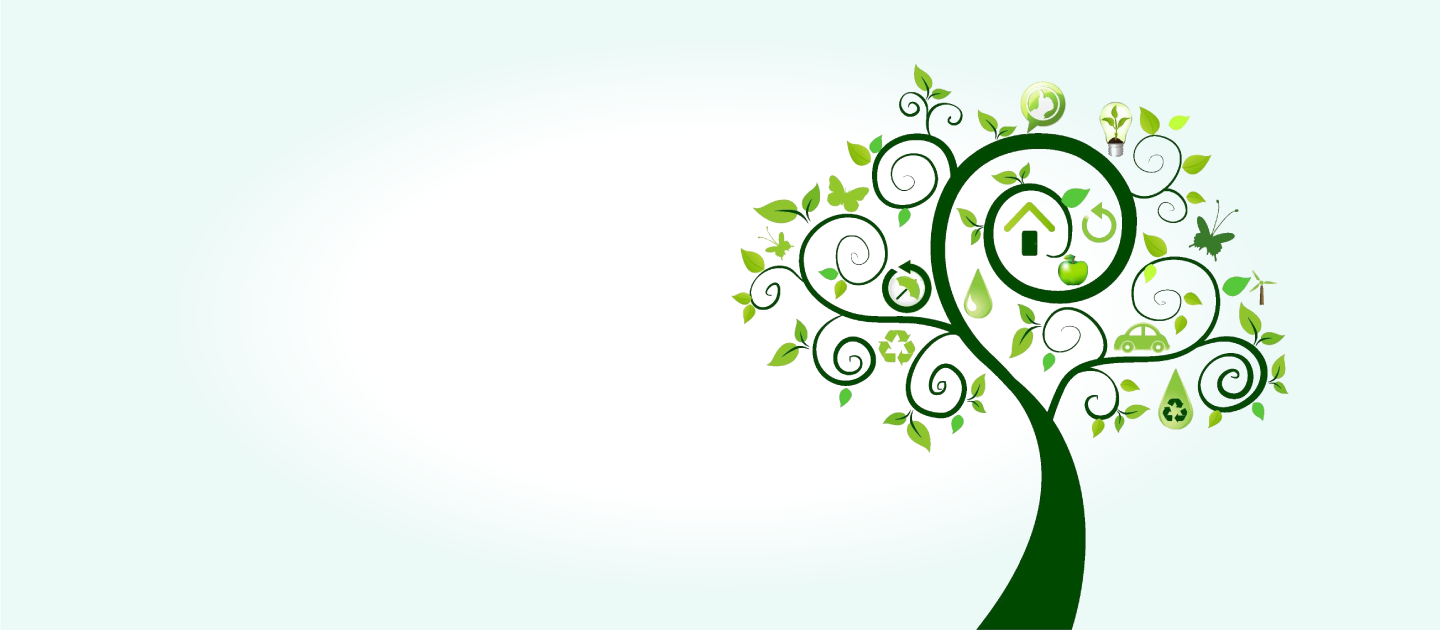
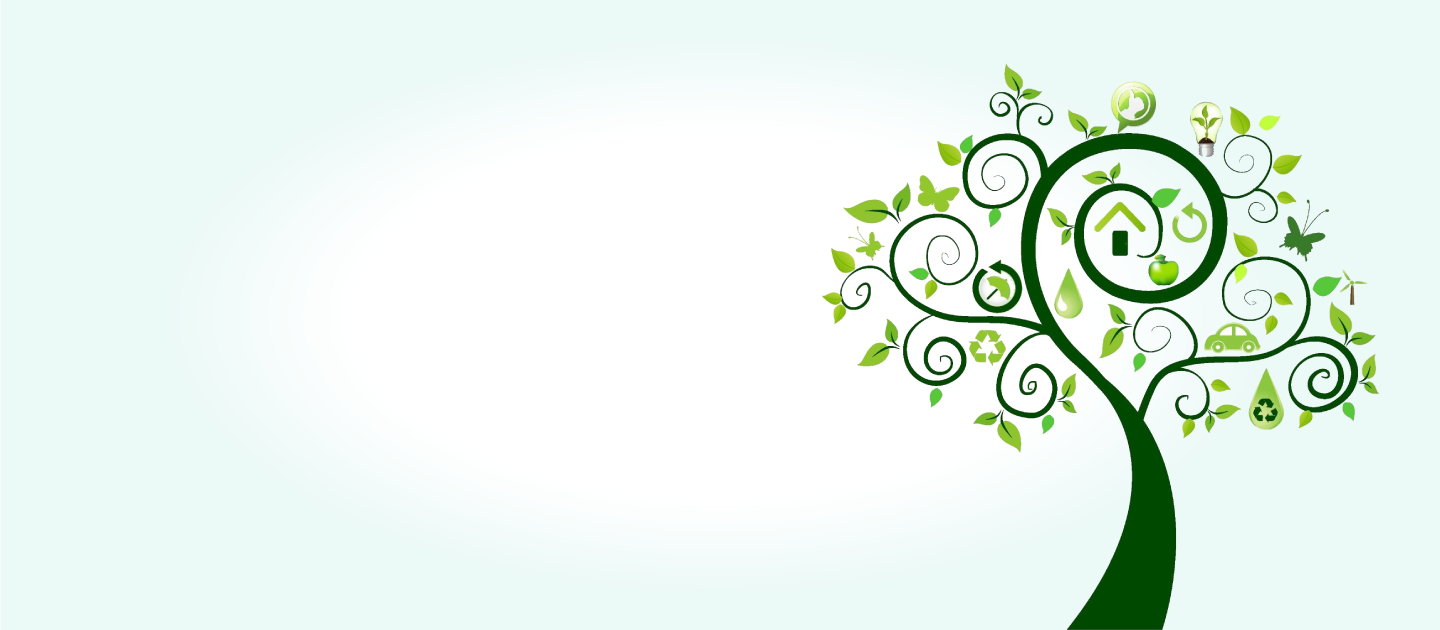
polishing...

Changed region(s): [[0.5, 0.0905, 0.9688, 1.0]]

diff --git a/index.html b/index.html
@@ -9,9 +9,11 @@ title: 歡迎
   <div class="ui container">
     <div id="background">
 
+      <!--
       <div class="sidebar button">
         <i class="teal icon sidebar" style="margin: 0;"></i>
       </div>
+    -->
 
       <div style="text-align: left;">
           <img style="height: 1.5rem;" src="{{ site.data.owner.logo.icon }}" />
@@ -20,7 +22,7 @@ title: 歡迎
 
       <div class="ui stackable grid">
         <div class="eight wide right aligned column">
-          <div style="margin: 2rem -1rem 2rem 0;">
+          <div style="margin: 1rem -1rem 1rem 0;">
             <div id="slogan">
               <p style="margin-bottom: 0.5rem;">
                 <span class="inline block">
@@ -40,6 +42,10 @@ title: 歡迎
                   需要你
                 </span>
               </p>
+              <a class="ui icon right labeled teal basic button" href="">
+                <i class="icon right chevron"></i>
+                開始測驗
+              </a>
             </div>
           </div>
         </div>
@@ -63,9 +69,18 @@ title: 歡迎
         </div>
       </div>
 
-      <div class="column">
+      <div class="center aligned column">
         <div class="ui image">
           <img src="assets/images/20170721-056.jpg">
+          <div style="padding: 0 2rem;">
+            <figcaption>能源轉型包含「廢核除煤、能源效率、綠色能源、智慧管理、經濟共享、民主治理」六大面向</figcaption>
+            <cite>
+              圖片來源：
+              <a href="https://www.cet-taiwan.org/publication/issue/content/3050" target="_blank">
+                地球公民基金會
+              </a>
+            </cite>
+          </div>
         </div>
       </div>
 
@@ -75,13 +90,13 @@ title: 歡迎
 
 <section class="ui basic olive section segment" style="background-color: #fdf9e5;">
   <div class="ui center aligned container" style="padding: 2rem 1rem;">
-    <div class="ui two fluid stackable raised cards">
+    <div class="ui two fluid stackable cards">
 
       {% for i in site.data.homepage.project %}
-      <div class="card">
+      <div class="{{ i.color }} card">
 
         <div class="image" style="padding: 1rem 0;">
-          <i class="huge circular icon {{ i.icon }}" style="background-color: #fff;"></i>
+          <i class="huge circular icon {{ i.color }} {{ i.icon }}" style="background-color: #fff;"></i>
         </div>
 
         <div class="content">
@@ -96,7 +111,9 @@ title: 歡迎
         </div>
 
         <div class="extra content">
-          <div class="ui horizontal list">
+
+          {% if i.link %}
+          <div class="ui relaxed list">
             {% for it in i.link %}
             <a class="item" href="{{ it.url }}">
               <i class="icon {{ it.icon }}"></i>
@@ -104,6 +121,17 @@ title: 歡迎
             </a>
             {% endfor %}
           </div>
+          {% endif %}
+
+          {% if i.button %}
+            {% for it in i.button %}
+            <a class="ui {{ i.color }} basic icon right labeled button" href="{{ it.url }}">
+              <i class="icon {{ it.icon }}"></i>
+              {{ it.title }}
+            </a>
+            {% endfor %}
+          {% endif %}
+
         </div>
 
       </div>
@@ -116,7 +144,7 @@ title: 歡迎
 <section id="news" class="ui basic olive section segment" style="background-color: #fff;">
   <div class="ui container" style="padding: 2rem 1rem;">
 
-      <div class="ui divided items">
+      <div class="ui divided relaxed items">
     {% for i in site.data.homepage.news %}
         <div class="item">
           <div class="image">
@@ -138,7 +166,7 @@ title: 歡迎
             </div>
             <div class="extra">
               <a href="{{ i.url }}" target="_blank">
-                閱讀全文
+                前往閱讀
                 <i class="icon right chevron"></i>
               </a>
             </div>

diff --git a/assets/global.css b/assets/global.css
@@ -32,14 +32,14 @@ html, body {
   padding: 1rem 0;
 }
 
-#header #background {
+#homepage #header #background {
   background: url('../assets/images/header.png') no-repeat center bottom;
-  background-size: cover;
+  background-size: auto 140%;
   padding: 2rem 1rem;
   min-height: 10rem;
 }
 
-#header #slogan {
+#homepage #header #slogan {
   display: inline-block;
   text-align: center;
   color: #034900;
@@ -48,45 +48,44 @@ html, body {
   margin: 0 -3rem -2rem -1rem;
 }
 
+figcaption, cite {
+  font-size: 0.8rem;
+  opacity: 0.6;
+  line-height: 1.5em;
+}
+
+a {
+  color: inherit;
+}
+
+a:hover {
+  color: #00b5ad;
+  opacity: 1;
+}
+
+#homepage .ui.card>.extra .ui.list a:hover,
+#homepage .ui.cards>.card>.extra .ui.list a:hover,
+#homepage .ui.items>.item>.content>a.header:hover {
+  color: #00b5ad;
+  opacity: 1;
+}
+
 @media only screen and (max-width: 767px) {
 
-#header .right.aligned.column {
+#homepage #header .right.aligned.column {
   text-align: left;
 }
 
-#header #slogan {
+#homepage #header #slogan {
   padding: 1rem;
-  text-align: left;
 }
 
+#homepage #header #background {
+  background-position: left -14rem bottom;
+}
 
-#news .ui.items .item {
+#homepage #news .ui.items .item {
   text-align: center;
-}
-
-}
-
-@media only screen and (max-width: 639px) {
-
-#header #background {
-  background-size: 80%;
-  background-position: right bottom;
-}
-
-}
-
-@media only screen and (max-width: 539px) {
-
-#header #background {
-  background-size: 70%;
-}
-
-}
-
-@media only screen and (max-width: 479px) {
-
-#header #background {
-  background-size: 55%;
 }
 
 }
